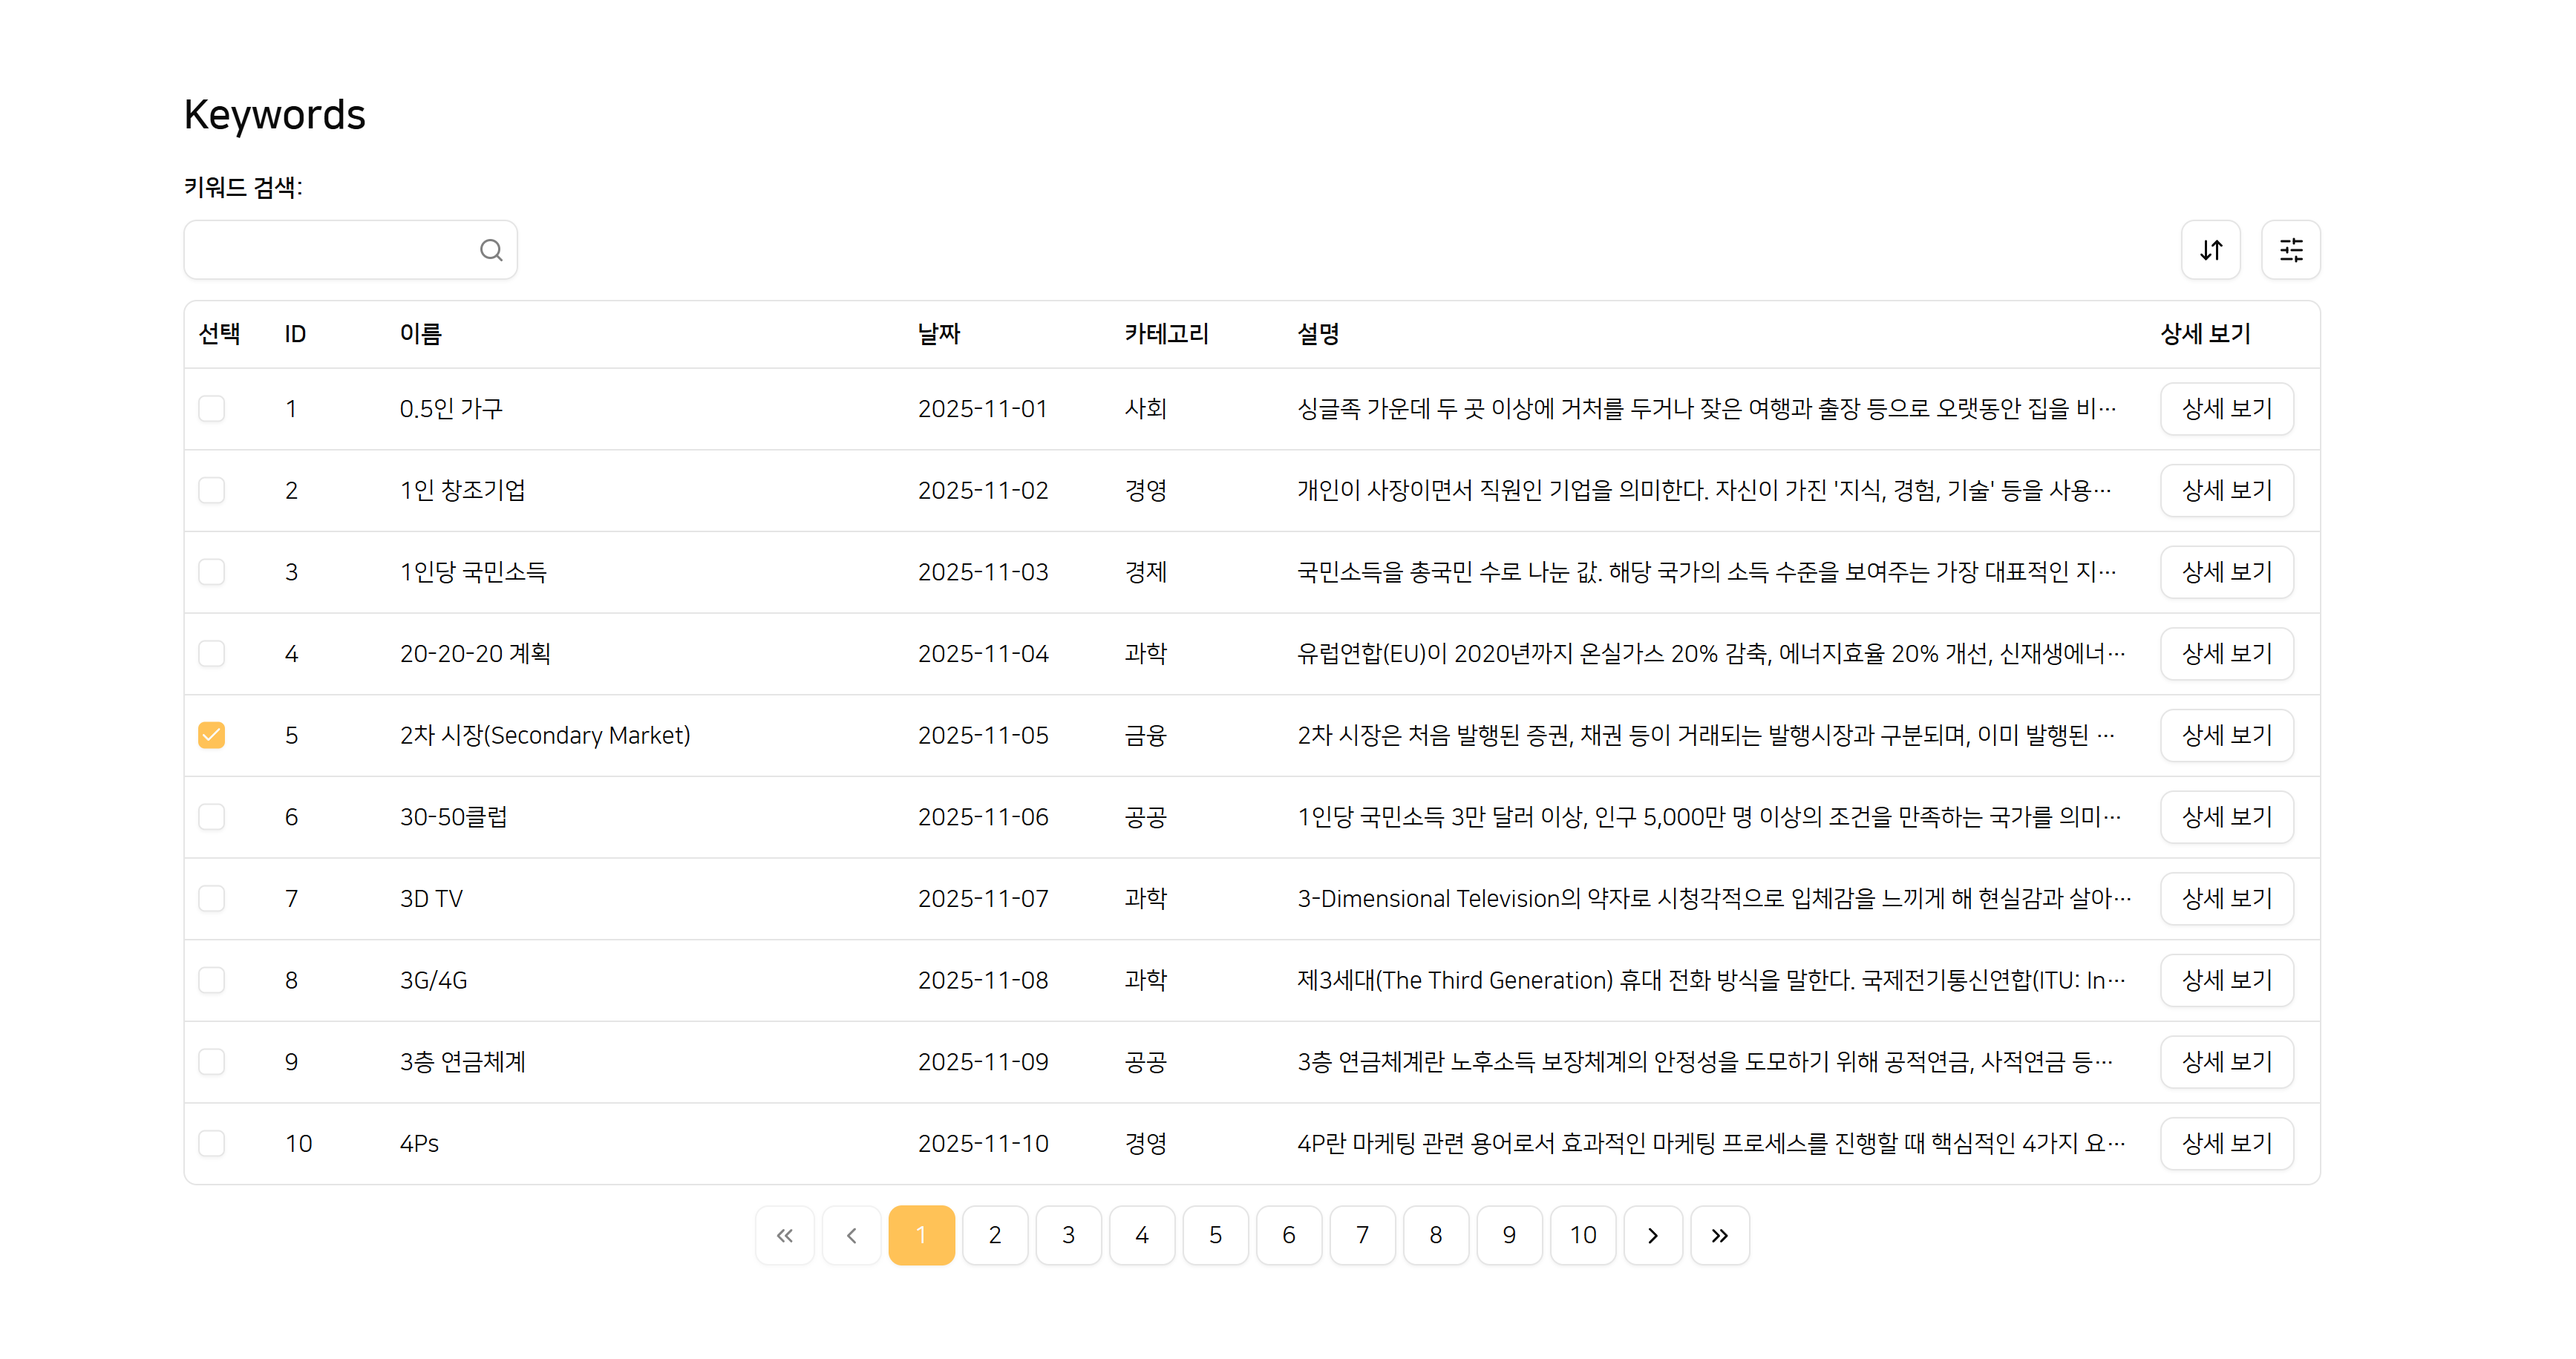
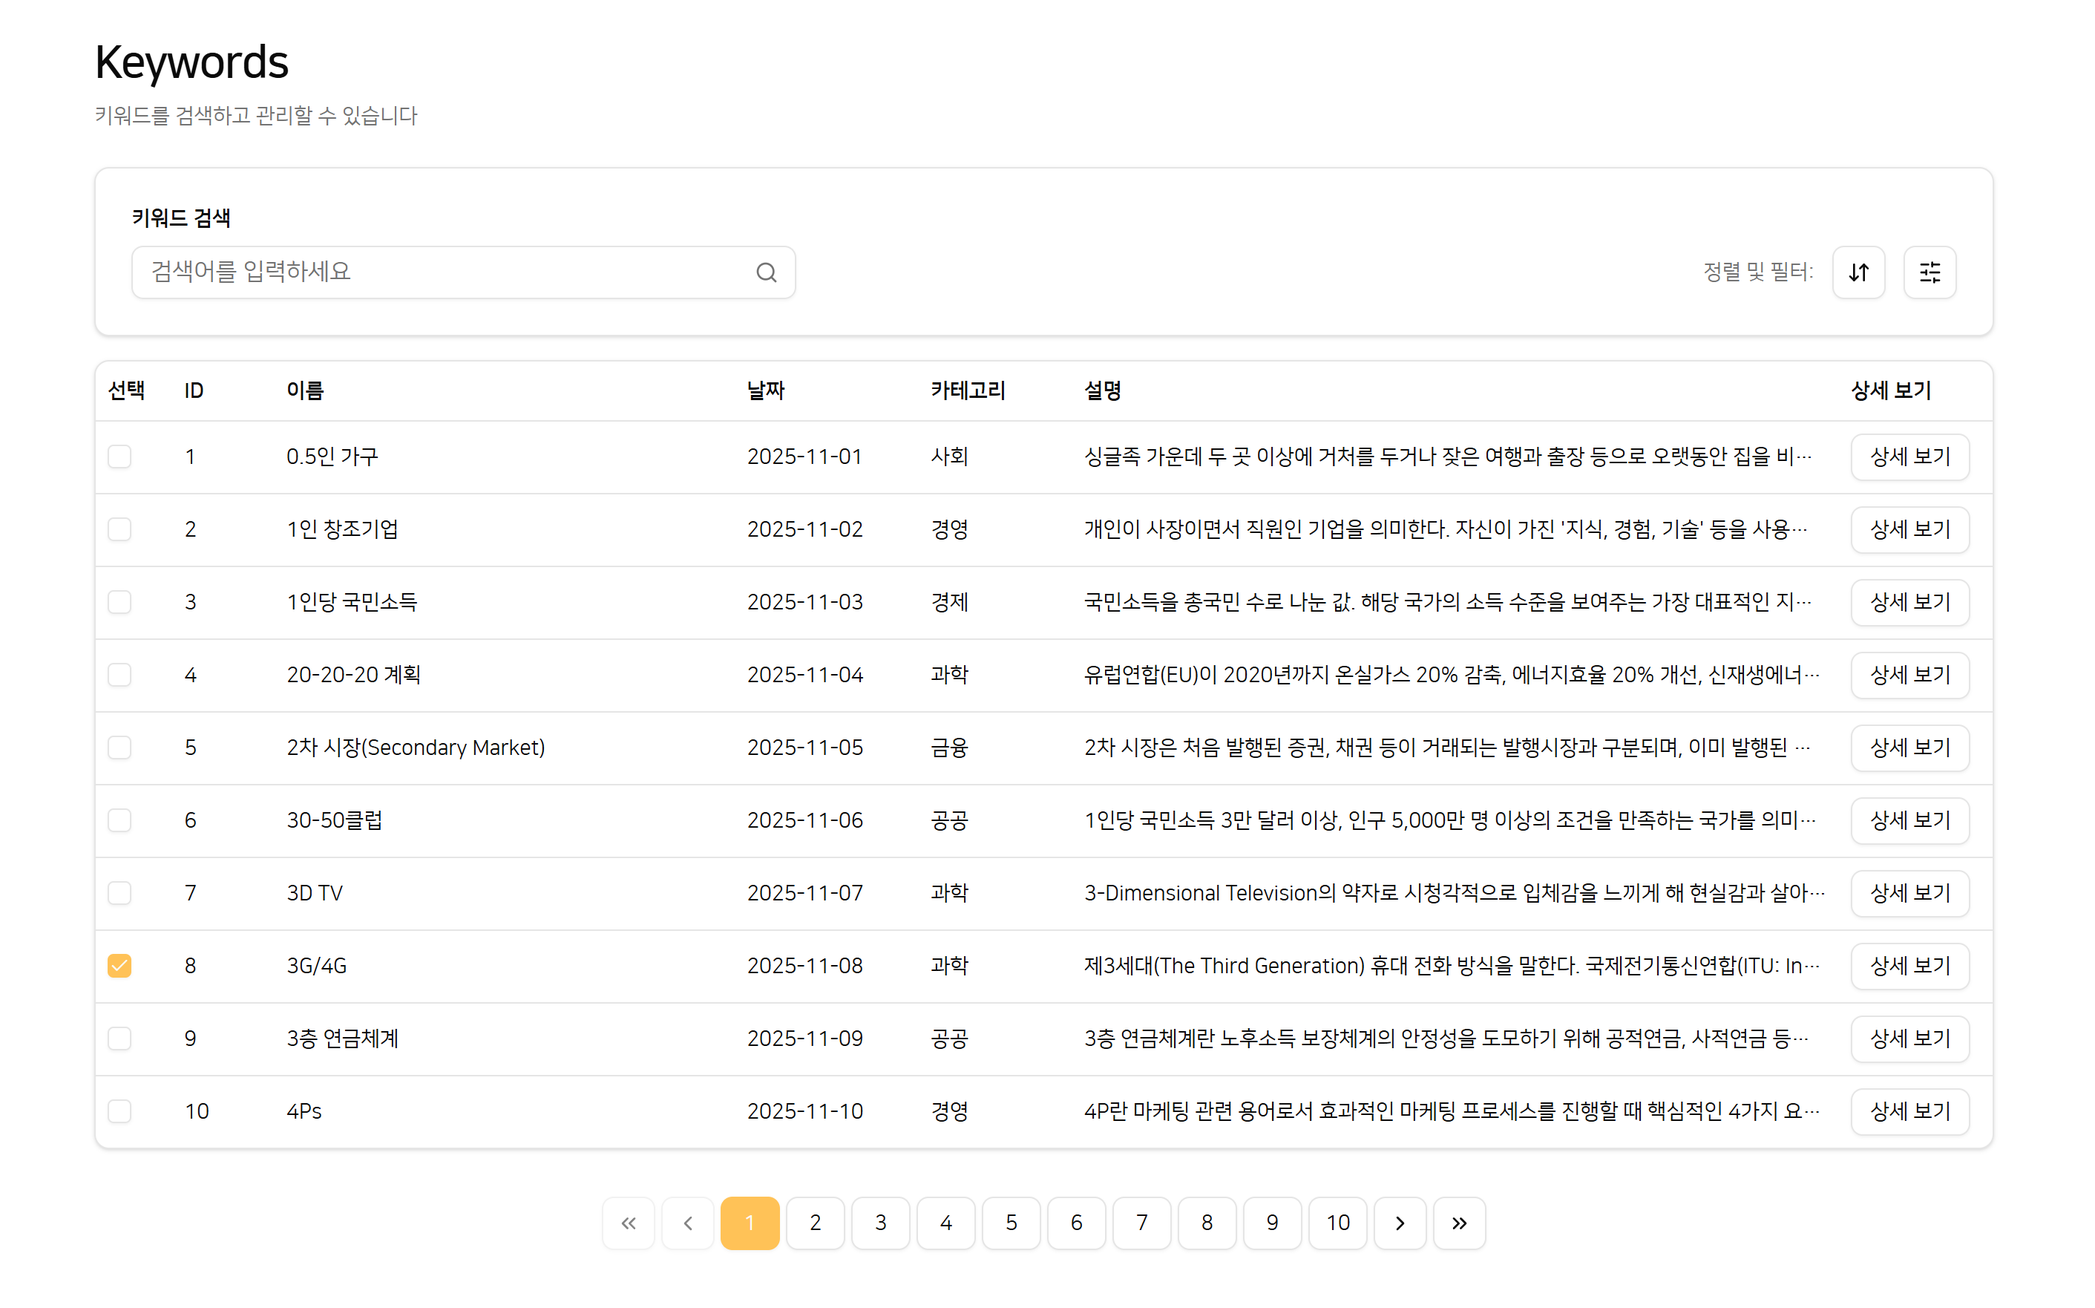
docs: README.md 업데이트

diff --git a/README.md b/README.md
@@ -73,12 +73,14 @@
 
 동일한 리프레시 토큰으로 여러 번 갱신 요청을 보내는 문제를 방지해서 프로그램 성능을 개선했습니다.
 
-### 처음 화면 접속 시 리프레시 토큰이 있어도 메인 화면으로 못가는 오류
+### 처음 화면 접속 시 리프레시 토큰이 있어도 메인 화면으로 못 가는 오류
 
 #### 문제점
 
-서비스를 기획할 때 사용자가 사이트 접속 시 로그인이 되어 있는 상태면 바로 메인 페이지로 가고 아닐 시 랜딩 페이지로 가도록 구상을 했었습니다. 그런데 액세스 토큰이 있을 때는 문제 없이 메인 페이지로 잘 접속이 됐는데, 엑세스 토큰은 없고 리프레시 토큰만 있을 시 메인 페이지로 가는게 아니라 랜딩 페이지로 가게 됐습니다.
+서비스를 기획할 때 사용자가 사이트 접속 시 로그인이 되어 있는 상태면 바로 메인 페이지로 가고, 아닐 시 랜딩 페이지로 가도록 구상했습니다. 그런데 액세스 토큰이 있을 때는 문제없이 메인 페이지로 잘 접속됐지만, 액세스 토큰은 없고 리프레시 토큰만 있을 시 메인 페이지가 아닌 랜딩 페이지로 이동하는 문제가 발생했습니다.
 
-#### 해결 방법
+#### 문제 원인 및 해결 방법
 
-**Axios** 인스턴스에 인터셉터를 등록하는 함수를 `SessionProvider`에 있는 `useEffect()` 내부에서 호출해서 인터셉터를 등록했었는데, `SessionProvider`가 `RouterProvider`의 부모 컴포넌트인 관계로 `RouterProvider`가
+**Axios** 인스턴스에 인터셉터를 등록하는 함수를 `SessionProvider`의 `useEffect()` 내부에서 호출했었습니다. 그런데 `SessionProvider`가 `RouterProvider`의 부모 컴포넌트인 관계로 `RouterProvider`의 `useEffect()`가 `SessionProvider`의 `useEffect()`보다 먼저 실행되어 인터셉터가 등록되지 않은 상태에서 리프레시 토큰 갱신이 시도되어 실패했습니다.
+
+`SessionProvider` 내에서 인터셉터를 `useLayoutEffect()`로 등록하여 `RouterProvider`가 마운트되는 것보다 인터셉터가 먼저 등록되도록 수정함으로써 문제를 해결했습니다.
